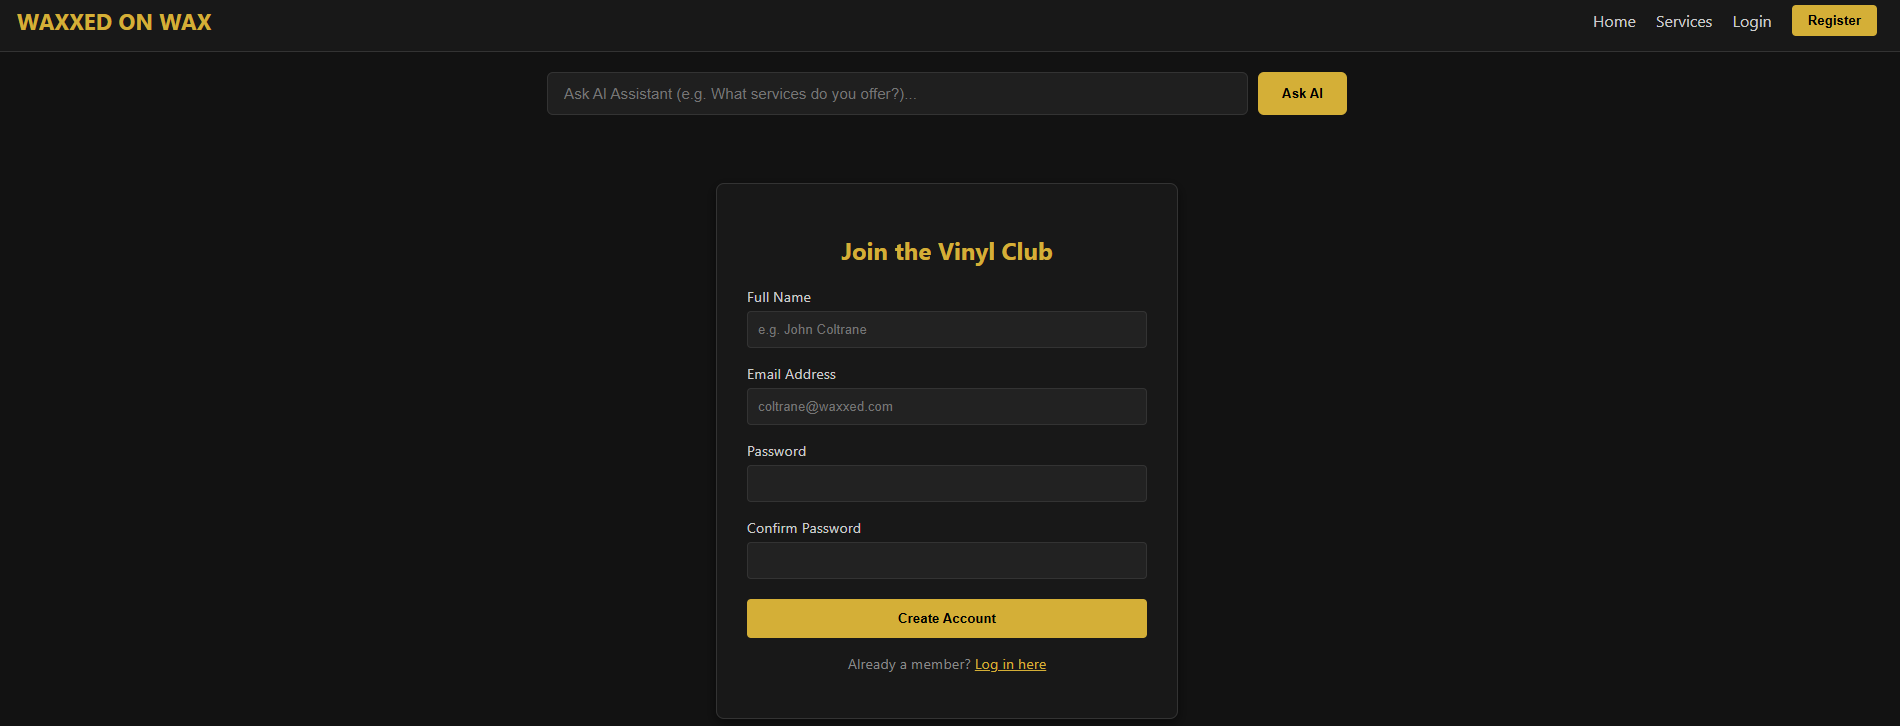
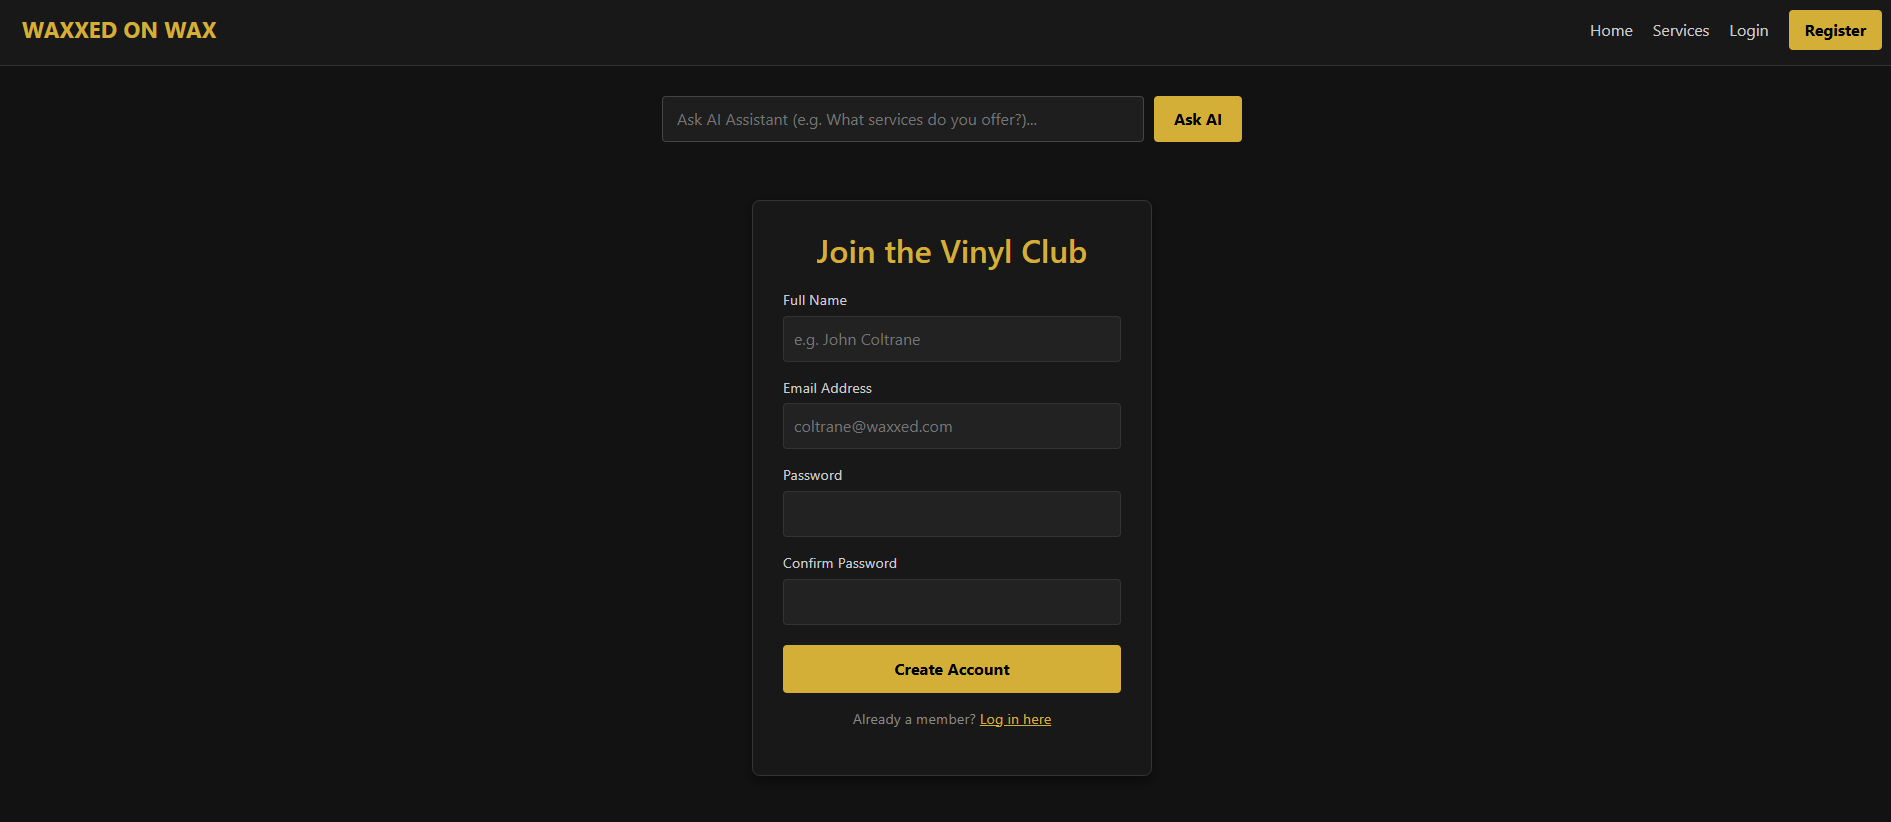
strap and readme

diff --git a/client/src/index.js b/client/src/index.js
@@ -1,5 +1,6 @@
 import React from 'react';
 import ReactDOM from 'react-dom/client';
+import 'bootstrap/dist/css/bootstrap.min.css';
 import './index.css';
 import App from './App';
 import reportWebVitals from './reportWebVitals';
@@ -11,7 +12,5 @@ root.render(
   </React.StrictMode>
 );
 
-// If you want to start measuring performance in your app, pass a function
-// to log results (for example: reportWebVitals(console.log))
-// or send to an analytics endpoint. Learn more: https://bit.ly/CRA-vitals
+
 reportWebVitals();
